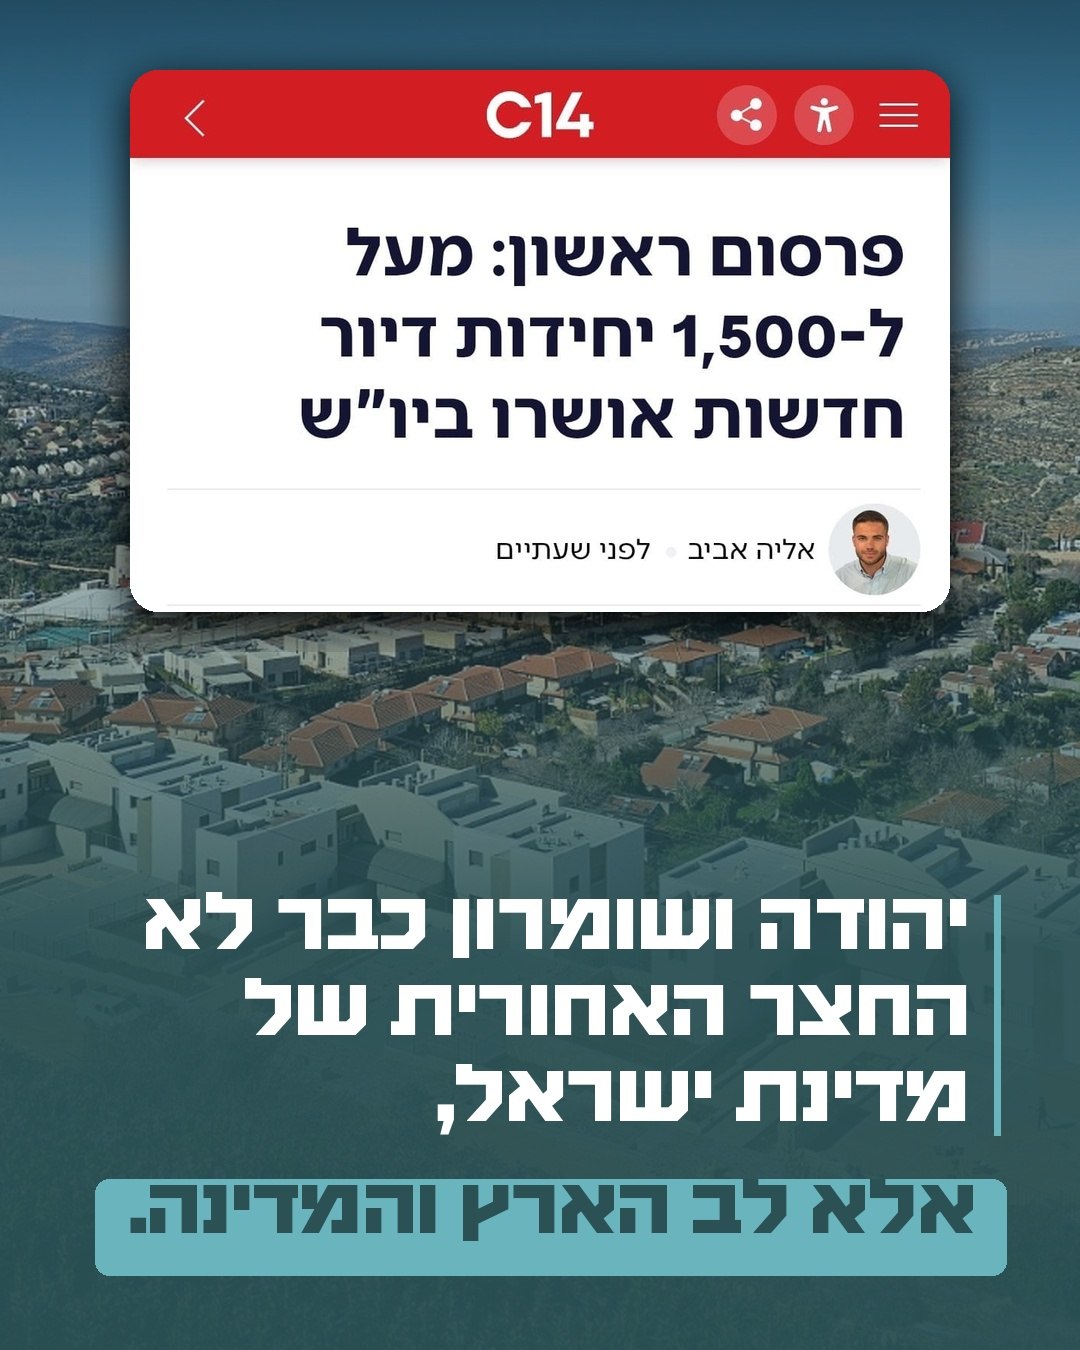
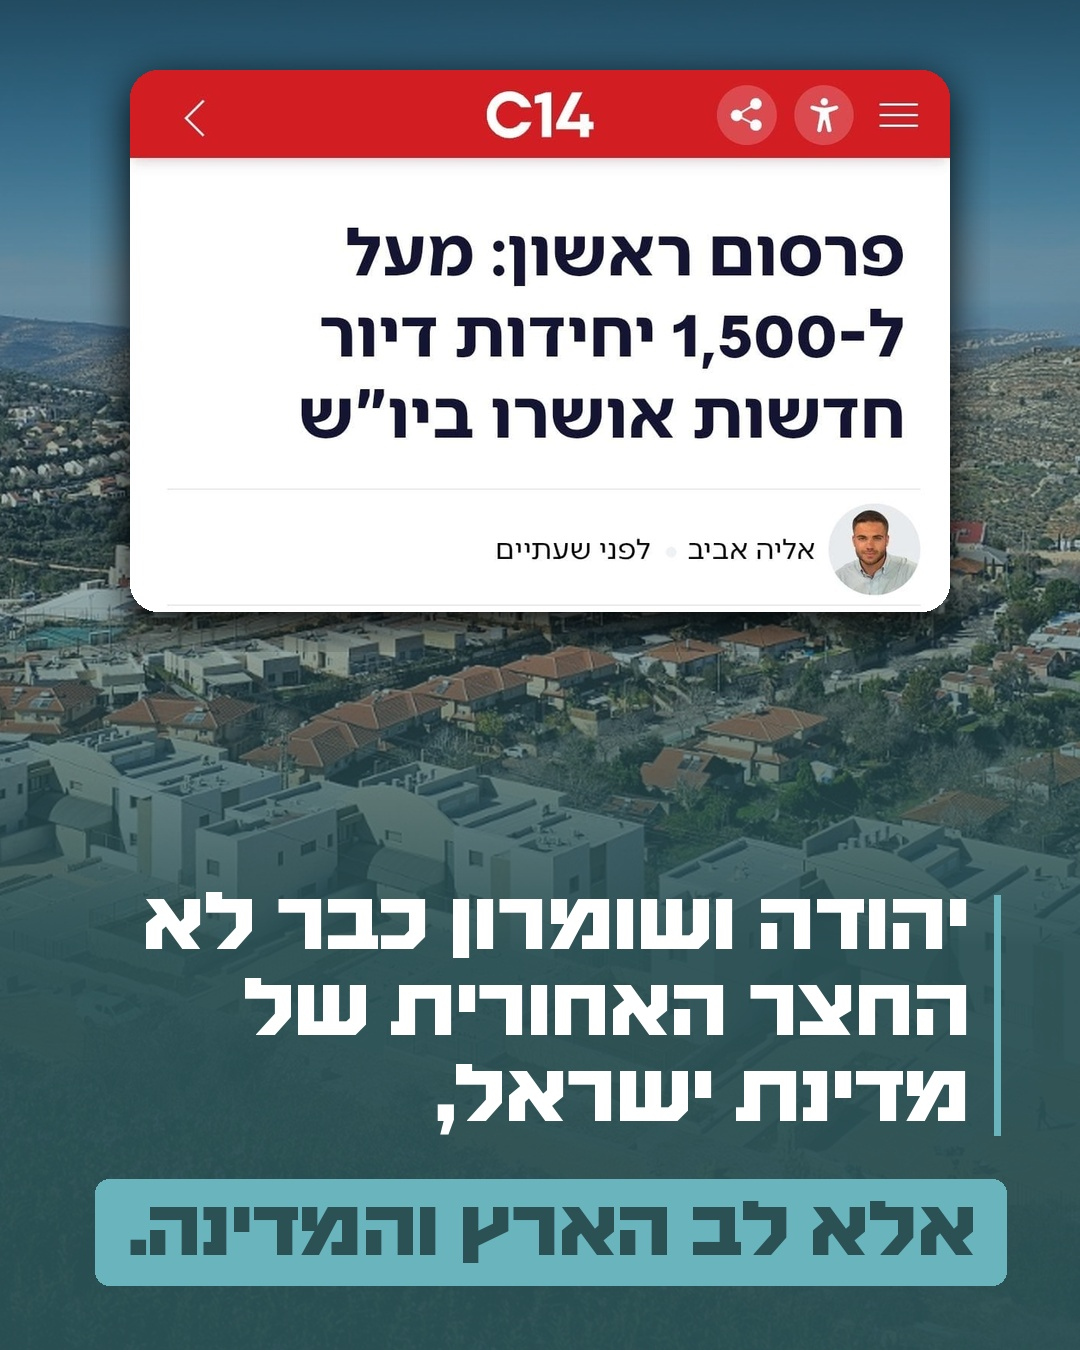
Housing post: center highlighted line vertically
Claude-Session: https://claude.ai/code/session_01RS3QK6pAd3YhyAuXZSJjH1

Changed region(s): [[0.0917, 0.8711, 0.9472, 0.9644]]

diff --git a/content-kit/hatzionut-hadatit/2026-11-post-housing-1515/make.py b/content-kit/hatzionut-hadatit/2026-11-post-housing-1515/make.py
@@ -41,7 +41,9 @@ for i, l in enumerate(lines):
     d.text((R - 30, y + i * lh), l, font=f1, fill=(255, 255, 255), anchor='ra', direction='rtl')
 y2 = y + lh * len(lines) + 30; f2 = F(80); t = 'אלא לב הארץ והמדינה.'
 tw = d.textlength(t, font=f2, direction='rtl')
-d.rounded_rectangle((R - tw - 56, y2 + 10, R + 6, y2 + 106), 14, fill=LT)
-d.text((R - 24, y2), t, font=f2, fill=DEEP, anchor='ra', direction='rtl')
-print('bottom', y2 + 106)
+bb = d.textbbox((0, 0), t, font=f2, anchor='ls', direction='rtl')  # ink box relative to baseline
+ink_h = bb[3] - bb[1]; pad = 22; p0, p1 = y2 + 10, y2 + 10 + ink_h + 2 * pad
+d.rounded_rectangle((R - tw - 56, p0, R + 6, p1), 14, fill=LT)
+d.text((R - 24, p0 + pad - bb[1]), t, font=f2, fill=DEEP, anchor='rs', direction='rtl')
+print('bottom', p1)
 im.convert('RGB').save(HERE + '/post.jpg', quality=95)
